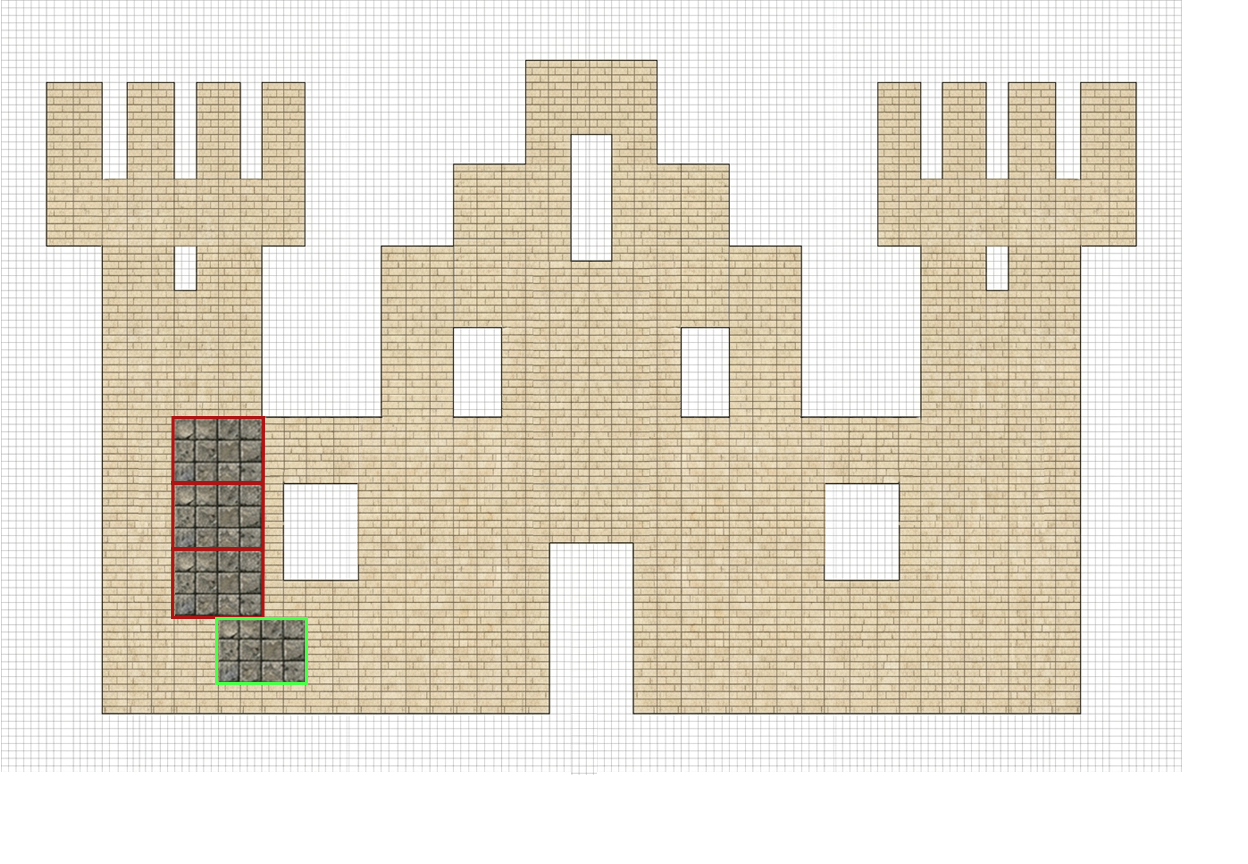
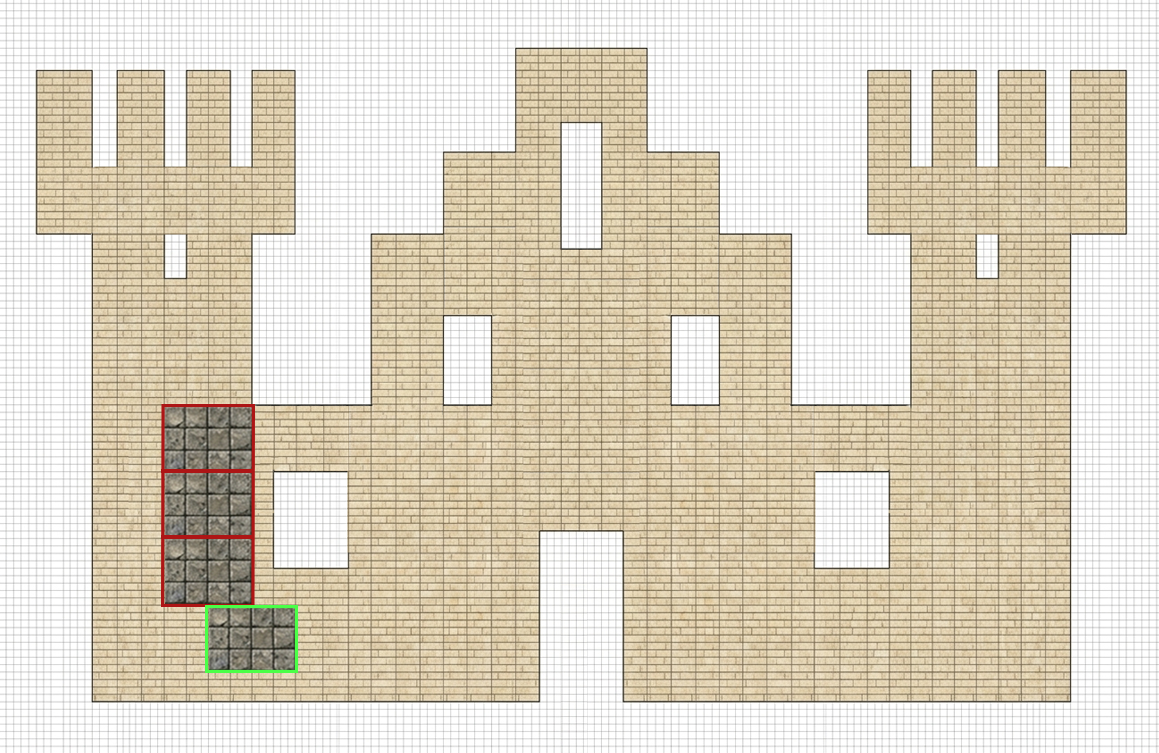
Merge pull request #8 from Karsoogh-Mehregan/develop
fix: update docs and some texts in herosection and add karsooghadmin

Pull request: fix: update docs and some texts in herosection and add karsooghadmin

diff --git a/src/pages/ContactUs.tsx b/src/pages/ContactUs.tsx
@@ -13,12 +13,20 @@ import siteIcon2 from '@/assets/social-icons/icon2.jpg';
 
 export default function ContactUs() {
   const [copied, setCopied] = React.useState(false);
+  const [copiedId, setCopiedId] = React.useState(false);
 
   const handleCopyPhone = () => {
     navigator.clipboard.writeText('[phone redacted]');
     setCopied(true);
     toast.success('شماره تماس کارسوق کپی شد!');
     setTimeout(() => setCopied(false), 2000);
+  };
+
+  const handleCopyId = () => {
+    navigator.clipboard.writeText('@karsooghadmin');
+    setCopiedId(true);
+    toast.success('آیدی پشتیبانی کپی شد!');
+    setTimeout(() => setCopiedId(false), 2000);
   };
 
   const socialMediaList = [
@@ -147,7 +155,7 @@ export default function ContactUs() {
             </div>
           </div>
 
-          {/* Support Call Card */}
+          {/* Support Card */}
           <motion.div
             whileHover={{ y: -2 }}
             className="lab-card p-6 flex flex-col sm:flex-row items-center justify-between gap-6 transition-all duration-300 hover:border-amber-500/30"
@@ -157,18 +165,29 @@ export default function ContactUs() {
                 <Phone size={24} />
               </div>
               <div>
-                <h3 className="text-lg font-extrabold text-white">شماره تماس کارسوق</h3>
+                <h3 className="text-lg font-extrabold text-white">ارتباط با پشتیبانی</h3>
                 <p className="text-xs text-slate-400 mt-1">پاسخگوی سوالات و ابهامات شما هستیم</p>
               </div>
             </div>
 
             <div className="flex flex-col sm:flex-row items-center gap-3 w-full sm:w-auto">
               <button
+                onClick={handleCopyId}
+                className="flex items-center justify-center gap-2 bg-white/[0.06] hover:bg-white/[0.1] border border-white/10 text-white font-bold px-6 py-3 rounded-xl transition duration-200 w-full sm:w-auto min-w-[160px] text-sm active:scale-[0.98]"
+              >
+                {copiedId ? <Check size={16} className="text-emerald-400" /> : <Copy size={16} />}
+                <span dir="ltr" className="whitespace-nowrap">
+                  @karsooghadmin
+                </span>
+              </button>
+              <button
                 onClick={handleCopyPhone}
-                className="flex items-center justify-center gap-2 bg-white/[0.06] hover:bg-white/[0.1] border border-white/10 text-white font-bold px-5 py-3 rounded-xl transition duration-200 w-full sm:w-auto text-sm active:scale-[0.98]"
+                className="flex items-center justify-center gap-2 bg-white/[0.06] hover:bg-white/[0.1] border border-white/10 text-white font-bold px-6 py-3 rounded-xl transition duration-200 w-full sm:w-auto min-w-[160px] text-sm active:scale-[0.98]"
               >
                 {copied ? <Check size={16} className="text-emerald-400" /> : <Copy size={16} />}
-                <span dir="ltr">+۹۸ ۹۹۸ ۱۳۹ ۴۱۰۲</span>
+                <span dir="ltr" className="whitespace-nowrap">
+                  +۹۸ ۹۹۸ ۱۳۹ ۴۱۰۲
+                </span>
               </button>
             </div>
           </motion.div>

diff --git a/src/components/landing/HeroSection.tsx b/src/components/landing/HeroSection.tsx
@@ -15,24 +15,22 @@ export function HeroSection() {
         transition={{ duration: 0.7, ease: 'easeOut' }}
         className="max-w-3xl"
       >
-        <span className="lab-kicker">
-          <Atom size={15} aria-hidden="true" />
-          دبیرخانه امور پژوهشی سازمان استعدادهای درخشان استان اصفهان
-        </span>
-
-        {/* <h1 className="mt-7 text-4xl font-black leading-[1.25] text-white sm:text-5xl lg:text-6xl">
-          کارسوق ریاضی مهرگان، دوره ۲۶
-        </h1> */}
+        <div className="mb-2 flex max-w-2xl items-start gap-3 text-sm font-medium text-cyan-100/90 sm:text-base">
+          <div className="mt-0.5 shrink-0 rounded-lg bg-cyan-500/10 p-1.5 ring-1 ring-cyan-500/20">
+            <Atom className="text-cyan-400" size={16} aria-hidden="true" />
+          </div>
+          <p className="leading-relaxed">
+            دبیرخانه امور پژوهشی اداره استعداد های درخشان استان اصفهان با همکاری جمعی از دانش
+            آموختگان سمپاد برگزار مینماید
+          </p>
+        </div>
 
         <h1 className="mt-7 flex flex-col gap-4 text-4xl font-black text-white sm:text-5xl lg:text-6xl">
-          <span>کارسوق ریاضی مهرگان،</span>
+          <span>کارسوق ریاضی مهرگان</span>
           <span>دوره ۲۶</span>
         </h1>
-        <p className="mt-6 max-w-2xl text-base leading-8 text-slate-300 sm:text-lg">
-          با همکاری دانشآموختگان سمپاد استان برگزار میشود.
-        </p>
 
-        <div className="mt-8 flex flex-col gap-3 sm:flex-row">
+        <div className="mt-20 flex flex-col gap-3 sm:flex-row">
           <Link to="#About" className="lab-button-primary">
             کارسوق؟ کارسوق کیه؟
             <ArrowLeft size={18} aria-hidden="true" />

diff --git a/src/components/Navbar.tsx b/src/components/Navbar.tsx
@@ -13,14 +13,15 @@ const useLinkClickHandler = () => {
 
       if (location.pathname !== '/') {
         navigate('/');
-        setTimeout(() => {
-          const element = document.getElementById(sectionId);
-          if (element) {
-            const yOffset = -80;
-            const y = element.getBoundingClientRect().top + window.scrollY + yOffset;
-            window.scrollTo({ top: y, behavior: 'smooth' });
-          }
-        }, 150);
+        if (sectionId !== 'Home')
+          setTimeout(() => {
+            const element = document.getElementById(sectionId);
+            if (element) {
+              const yOffset = -80;
+              const y = element.getBoundingClientRect().top + window.scrollY + yOffset;
+              window.scrollTo({ top: y, behavior: 'smooth' });
+            }
+          }, 150);
       } else {
         const element = document.getElementById(sectionId);
         if (element) {

diff --git a/src/docs/mehregan25/meta.ts b/src/docs/mehregan25/meta.ts
@@ -1,7 +1,7 @@
 import type { DocMeta } from '@/docs/types';
 
 export const meta: DocMeta = {
-  title: 'کارسوق ۲۵',
+  title: 'بیست و پنجمین دوره',
   description: 'مستندات دوره ۲۵ کارسوق',
   tabOrder: ['1', '2', '3', '4', '5', '6', '7', '8', '9', '10'],
   isVisible: true,

diff --git a/tests/example.test.tsx b/tests/example.test.tsx
@@ -38,7 +38,7 @@ describe('landing and auth flows', () => {
     );
 
     expect(
-      screen.getByRole('heading', { level: 1, name: /کارسوق ریاضی مهرگان،\s*دوره ۲۶/ }),
+      screen.getByRole('heading', { level: 1, name: /کارسوق ریاضی مهرگان\s*دوره ۲۶/ }),
     ).toBeInTheDocument();
   });
 